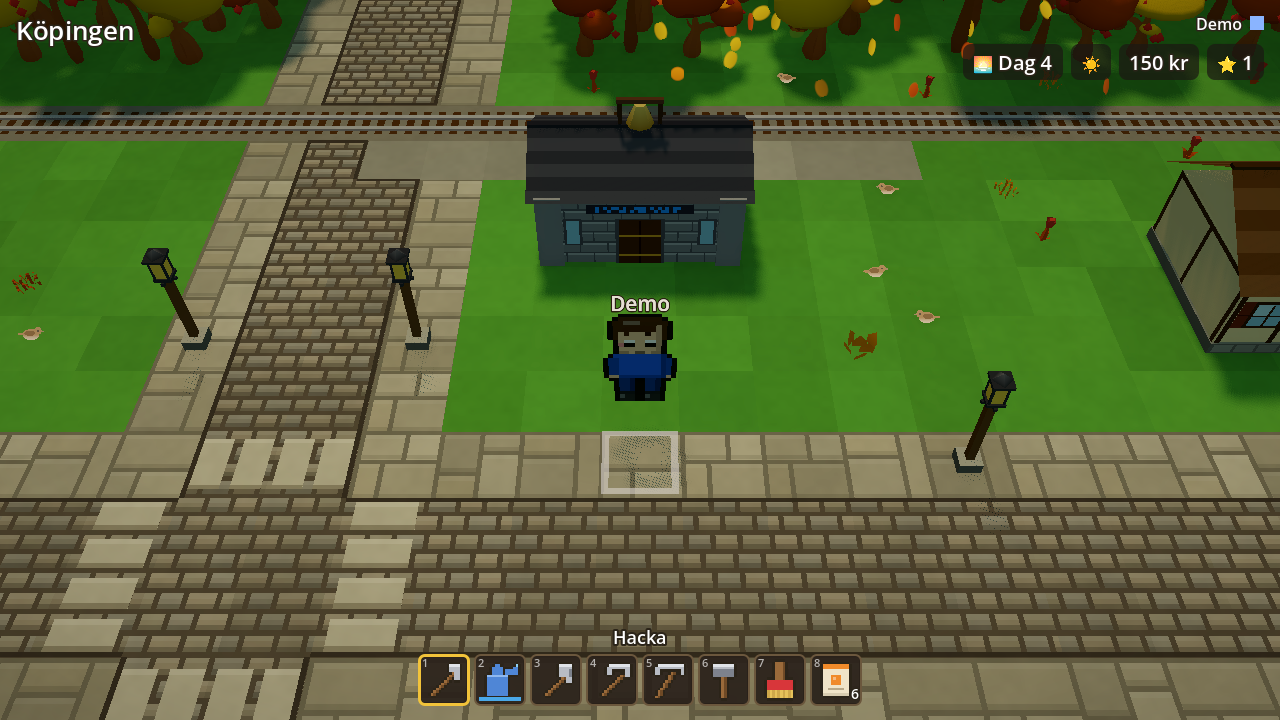
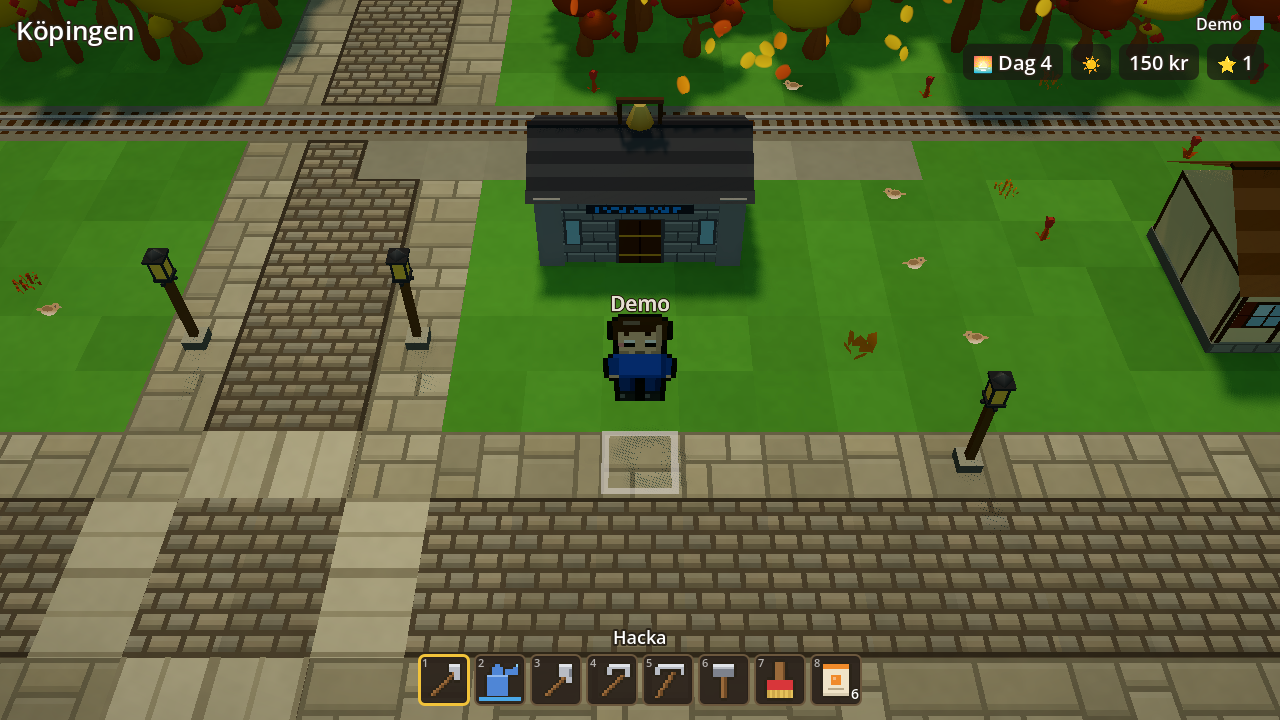
Retaken pictures with the continuous crossing band, and one of the main street on Låg
Claude-Session: https://claude.ai/code/session_01KTh22pxQszsTzr6LppqA3f

diff --git a/README.md b/README.md
@@ -308,7 +308,7 @@ Köpingen as a Viking market town (2026-11-07): cobblestone streets, flagstone p
 hanging signs, the Vägvisare signposts and iron lanterns, and the horse cart, the riding horse and Diligensen instead of cars and a bus
 ([the main street](packages/godot/docs/koepingen-street.png), [at night](packages/godot/docs/koepingen-street-night.png),
 [the houses and shops](packages/godot/docs/koepingen-houses.png), [the square](packages/godot/docs/koepingen-square.png),
-[the station](packages/godot/docs/koepingen-station.png), [what it looked like before](packages/godot/docs/koepingen-before.png) and
+[the station](packages/godot/docs/koepingen-station.png), [the street on the Låg preset](packages/godot/docs/koepingen-street-lag.png), [what it looked like before](packages/godot/docs/koepingen-before.png) and
 [the browser's art for the same spot beside the native client](packages/godot/docs/koepingen-browser-vs-native.png), the left half drawn by the browser's own art code, not a screenshot of the running browser).
 
 ![Köpingen's main street in the native client](packages/godot/docs/koepingen-street.png)
